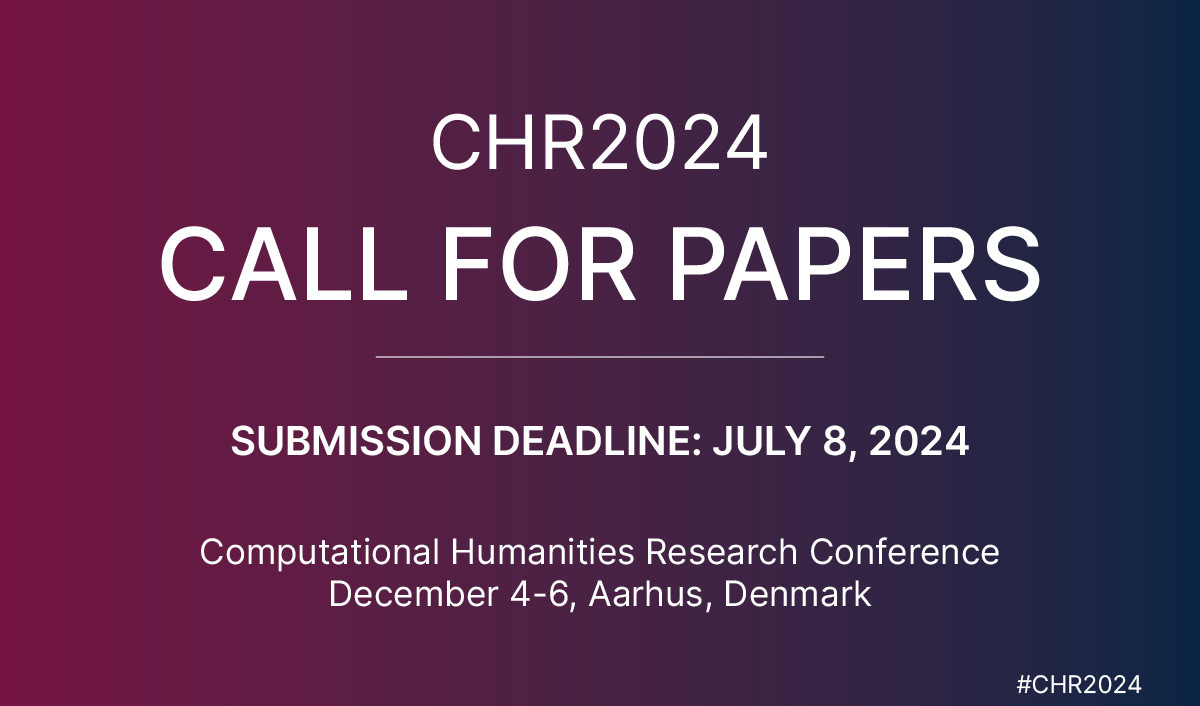
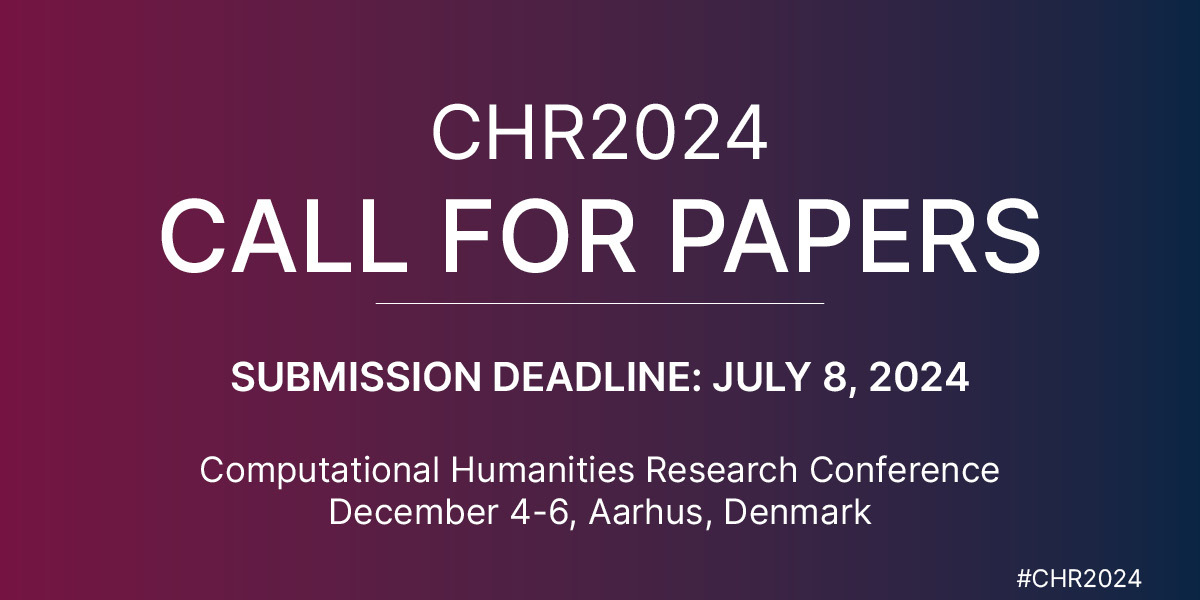
Update announcement section and modify aspect ratio
In the announcement section, a new announcement div has been added regarding the extended deadline for the "Call for Papers". The aspect ratio for images in announcements has also been changed from 1.7/1 to 2/1.

diff --git a/docs/announcements/index.html b/docs/announcements/index.html
@@ -94,15 +94,23 @@
     }
     .announce {
         /*border: 1px solid;*/
+        display: flex;
+        flex-direction: column;
     }
 
-.announce .content {
-    padding: 0 0rem 1rem 0rem;
-}
+    .announce .content {
+        padding: 0 0rem 1rem 0rem;
+        display: flex;
+        flex-direction: column;
+        flex-grow: 1;
+    }
 
+    .announce .content h3 {
+        margin-bottom: 0px;
+    }
     .announce img {
         width: 100%;
-        aspect-ratio: 1.7/1;
+        aspect-ratio: 2/1;
         object-fit: cover;
         object-position: 100% 0;
     }
@@ -116,9 +124,23 @@
         padding: 0.5rem 1rem;
         border: 1px solid;
         border-radius: 24px;
+        margin-top: auto;
+        align-self: flex-start;
     }
 </style>
 <div class="announcements">
+    <div class="announce">
+        <img src="/images/announce/CHR2024-extension.jpg" alt="Call for Papers">
+        <div class="content">
+            <h3>CFP Deadline Extension</h3>
+            <p>
+New submission deadline: July 15, 2024. We invite original research papers from a wide range of topics, 
+including – but not limited to – the following: Applications of statistical methods and machine learning to process, 
+enrich and analyse...
+            </p>
+            <a class="link-button" href="/cfp">Read More</a>
+        </div>
+    </div>
     <div class="announce">
         <img src="/images/announce/CHR2024-CFP-website.jpg" alt="Call for Papers">
         <div class="content">

diff --git a/docs/index.html b/docs/index.html
@@ -1,6 +1,6 @@
 <!DOCTYPE html>
 <html><head>
-	<meta name="generator" content="Hugo 0.126.1">
+	<meta name="generator" content="Hugo 0.127.0">
   <meta charset="utf-8">
   <meta name="viewport" content="width=device-width, initial-scale=1, maximum-scale=1.0"/>
   <title>Computational Humanities Research 2024</title>

diff --git a/content/announcements.md b/content/announcements.md
@@ -12,15 +12,23 @@ date: 2021-02-19T16:05:25+01:00
     }
     .announce {
         /*border: 1px solid;*/
+        display: flex;
+        flex-direction: column;
     }
 
-.announce .content {
-    padding: 0 0rem 1rem 0rem;
-}
+    .announce .content {
+        padding: 0 0rem 1rem 0rem;
+        display: flex;
+        flex-direction: column;
+        flex-grow: 1;
+    }
 
+    .announce .content h3 {
+        margin-bottom: 0px;
+    }
     .announce img {
         width: 100%;
-        aspect-ratio: 1.7/1;
+        aspect-ratio: 2/1;
         object-fit: cover;
         object-position: 100% 0;
     }
@@ -34,10 +42,24 @@ date: 2021-02-19T16:05:25+01:00
         padding: 0.5rem 1rem;
         border: 1px solid;
         border-radius: 24px;
+        margin-top: auto;
+        align-self: flex-start;
     }
 </style>
 
 <div class="announcements">
+    <div class="announce">
+        <img src="/images/announce/CHR2024-extension.jpg" alt="Call for Papers">
+        <div class="content">
+            <h3>CFP Deadline Extension</h3>
+            <p>
+New submission deadline: July 15, 2024. We invite original research papers from a wide range of topics, 
+including – but not limited to – the following: Applications of statistical methods and machine learning to process, 
+enrich and analyse...
+            </p>
+            <a class="link-button" href="/cfp">Read More</a>
+        </div>
+    </div>
     <div class="announce">
         <img src="/images/announce/CHR2024-CFP-website.jpg" alt="Call for Papers">
         <div class="content">
